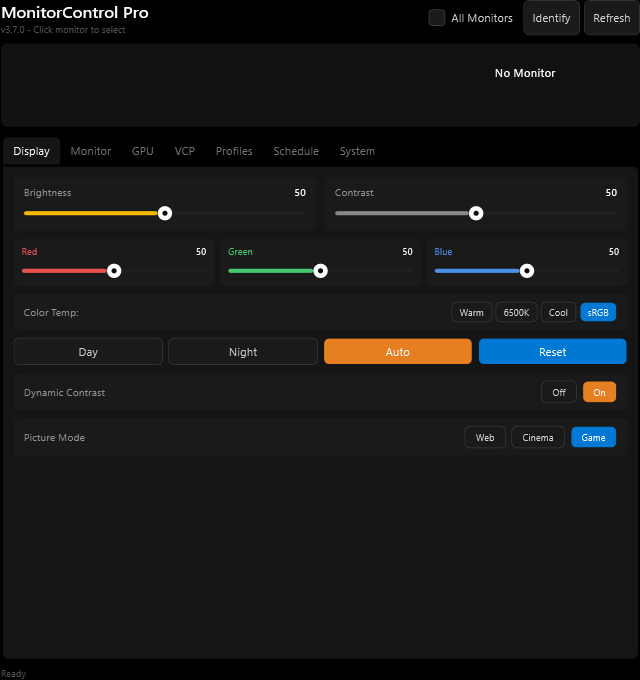
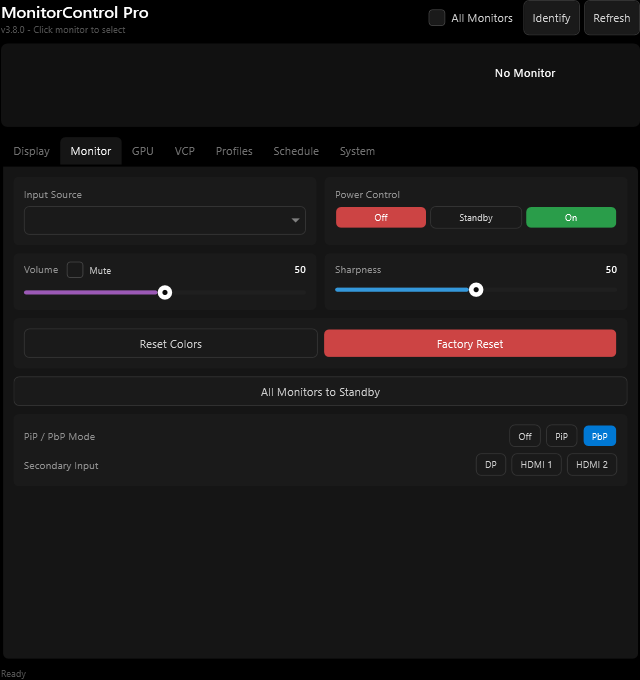
feat: add pip pbp controls

diff --git a/README.md b/README.md
@@ -1,7 +1,7 @@
 # MonitorControl Pro
 
 <p align="center">
-  <img src="https://img.shields.io/badge/Version-v3.7.0-brightgreen" alt="Version v3.7.0">
+  <img src="https://img.shields.io/badge/Version-v3.8.0-brightgreen" alt="Version v3.8.0">
   <img src="https://img.shields.io/badge/PowerShell-5.1+-blue?logo=powershell" alt="PowerShell 5.1+">
   <img src="https://img.shields.io/badge/Windows-10%2F11-0078D6?logo=windows" alt="Windows 10/11">
   <img src="https://img.shields.io/badge/DDC%2FCI-Supported-green" alt="DDC/CI">
@@ -24,6 +24,7 @@ A comprehensive Windows GUI utility for controlling monitor settings via DDC/CI 
 - **Visual Monitor Layout** — Click-to-select interface matching Windows Display Settings
 - **Input Source Switching** — Switch between HDMI, DisplayPort, USB-C, DVI, VGA
 - **Power Control** — Turn monitors On, Standby, or Off via software
+- **PiP / PbP Controls** — Toggle vendor-defined PiP/PbP modes and secondary input routing for ultrawide monitors that expose those DDC/CI controls
 - **Apply to All Monitors** — Sync settings across all connected displays
 - **Monitor Identification** — On-screen overlays showing monitor numbers
 
@@ -154,6 +155,8 @@ The VCP Explorer tab allows you to query and set any DDC/CI VCP code. Common cod
 | `0xD7` | Aux Power Output | varies | Auxiliary power output control when supported |
 | `0xDC` | Display Mode | varies | Preset picture/display modes |
 | `0xDF` | VCP Version | read-only | Monitor VCP/MCCS version |
+| `0xE8` | Secondary Input Source | vendor-defined | Secondary PiP/PbP input on some Dell-style ultrawides |
+| `0xE9` | PiP/PbP Mode | vendor-defined | PiP/PbP mode on some Dell-style ultrawides |
 | `0x04` | Factory Reset | 1 | Reset all settings |
 | `0x08` | Color Reset | 1 | Reset color settings only |
 
@@ -167,6 +170,16 @@ The VCP Explorer tab allows you to query and set any DDC/CI VCP code. Common cod
 | `0x11` | HDMI 1 |
 | `0x12` | HDMI 2 |
 | `0x13` | USB-C |
+
+### PiP / PbP Vendor Values
+| Code | Value | Meaning |
+|------|-------|---------|
+| `0xE9` | `0x00` | PiP/PbP off |
+| `0xE9` | `0x21` | PiP upper-right |
+| `0xE9` | `0x23` | PbP split |
+| `0xE8` | `0x21` | Secondary DisplayPort |
+| `0xE8` | `0x11` | Secondary HDMI 1 |
+| `0xE8` | `0x12` | Secondary HDMI 2 |
 
 ### Power Mode Values
 | Value | State |

diff --git a/ROADMAP.md b/ROADMAP.md
@@ -5,8 +5,6 @@ PowerShell/WPF utility for DDC/CI monitor control â€” brightness, contrast,
 ## Planned Features
 
 ### Display Controls
-- Dual-Input PiP/PbP control for ultrawide monitors that support it
-
 ### GPU Monitoring
 - NVAPI integration for Digital Vibrance (stop being a placeholder)
 - AMD ADL SDK for Radeon temperature/clock/fan
